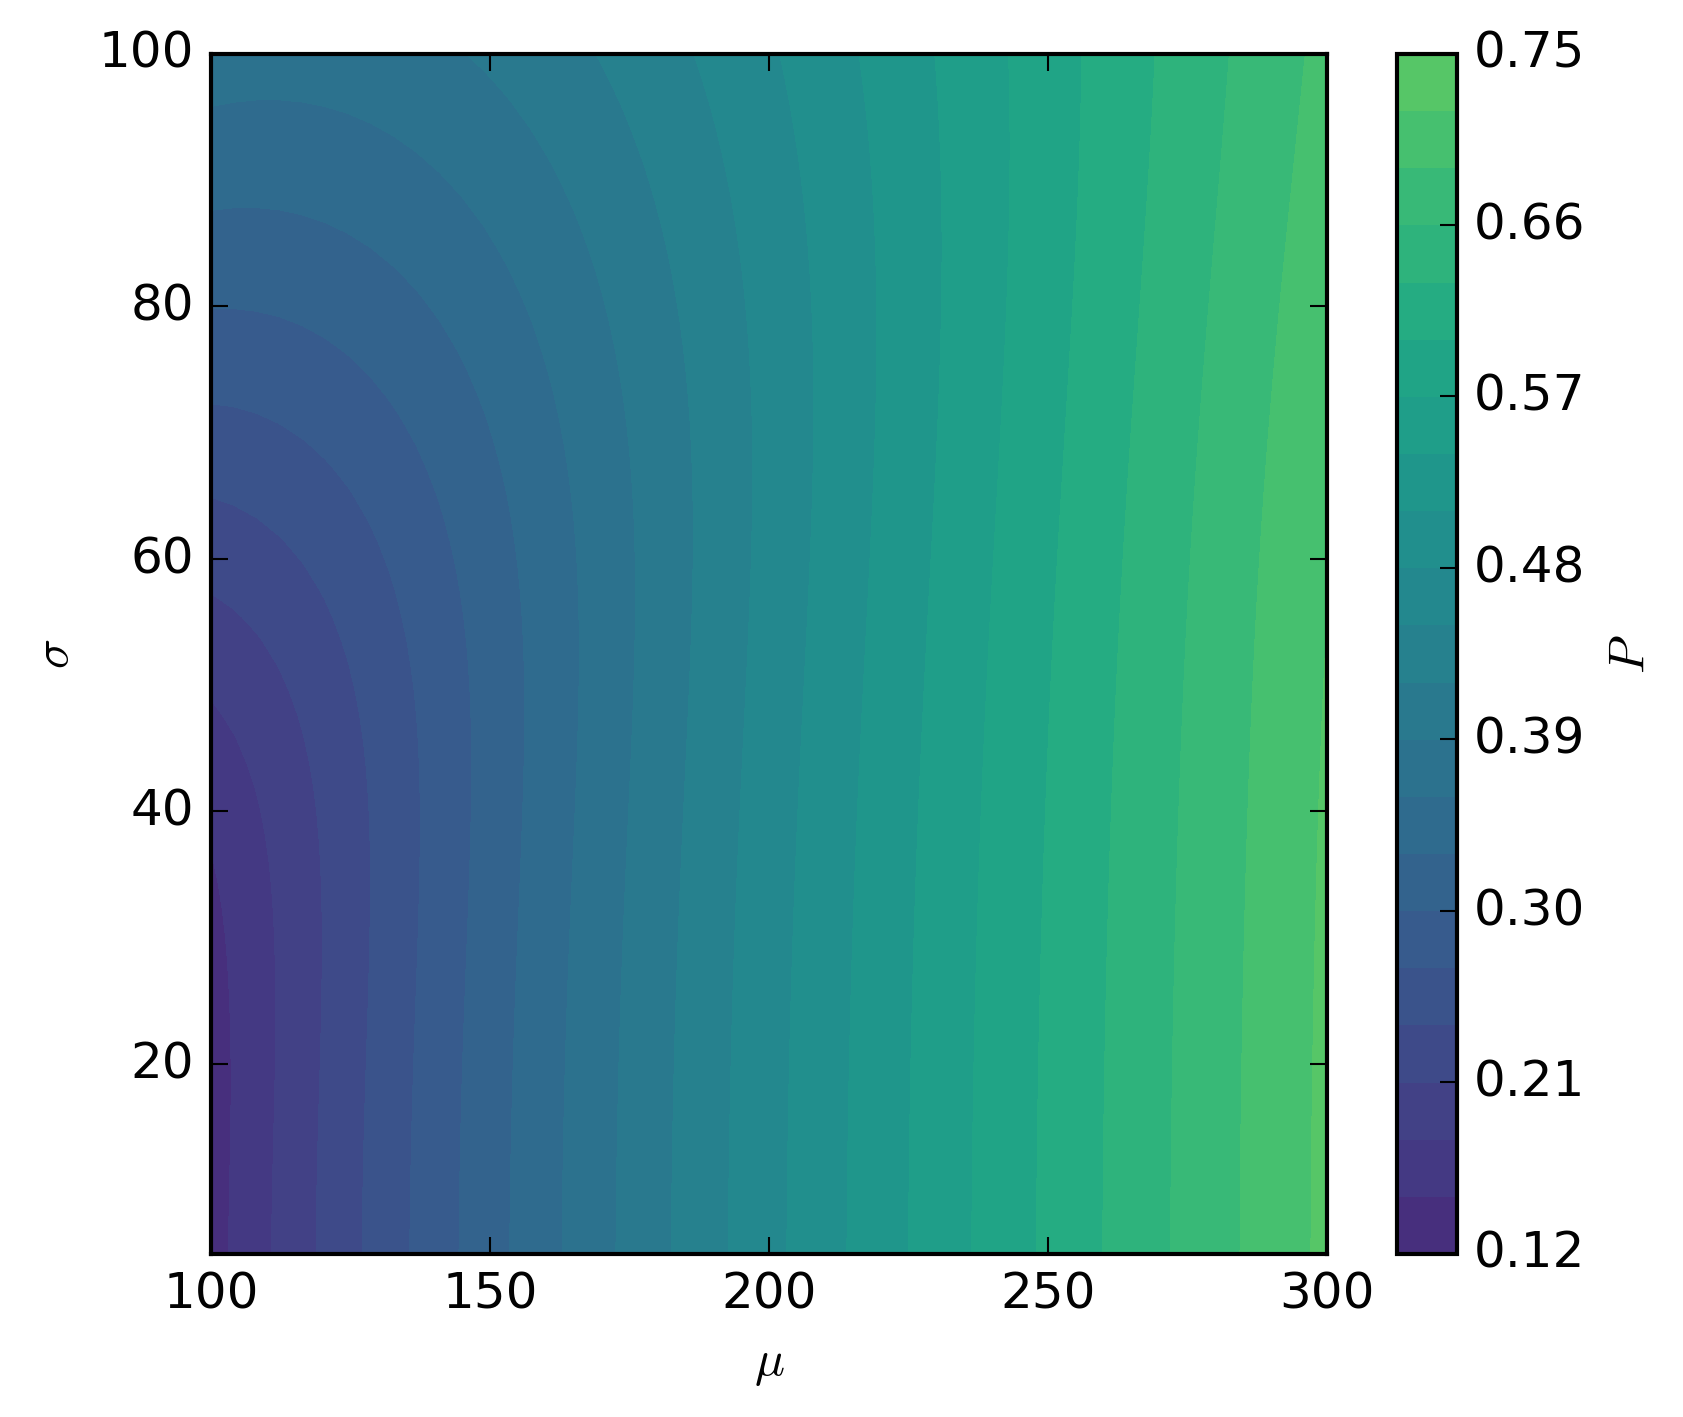
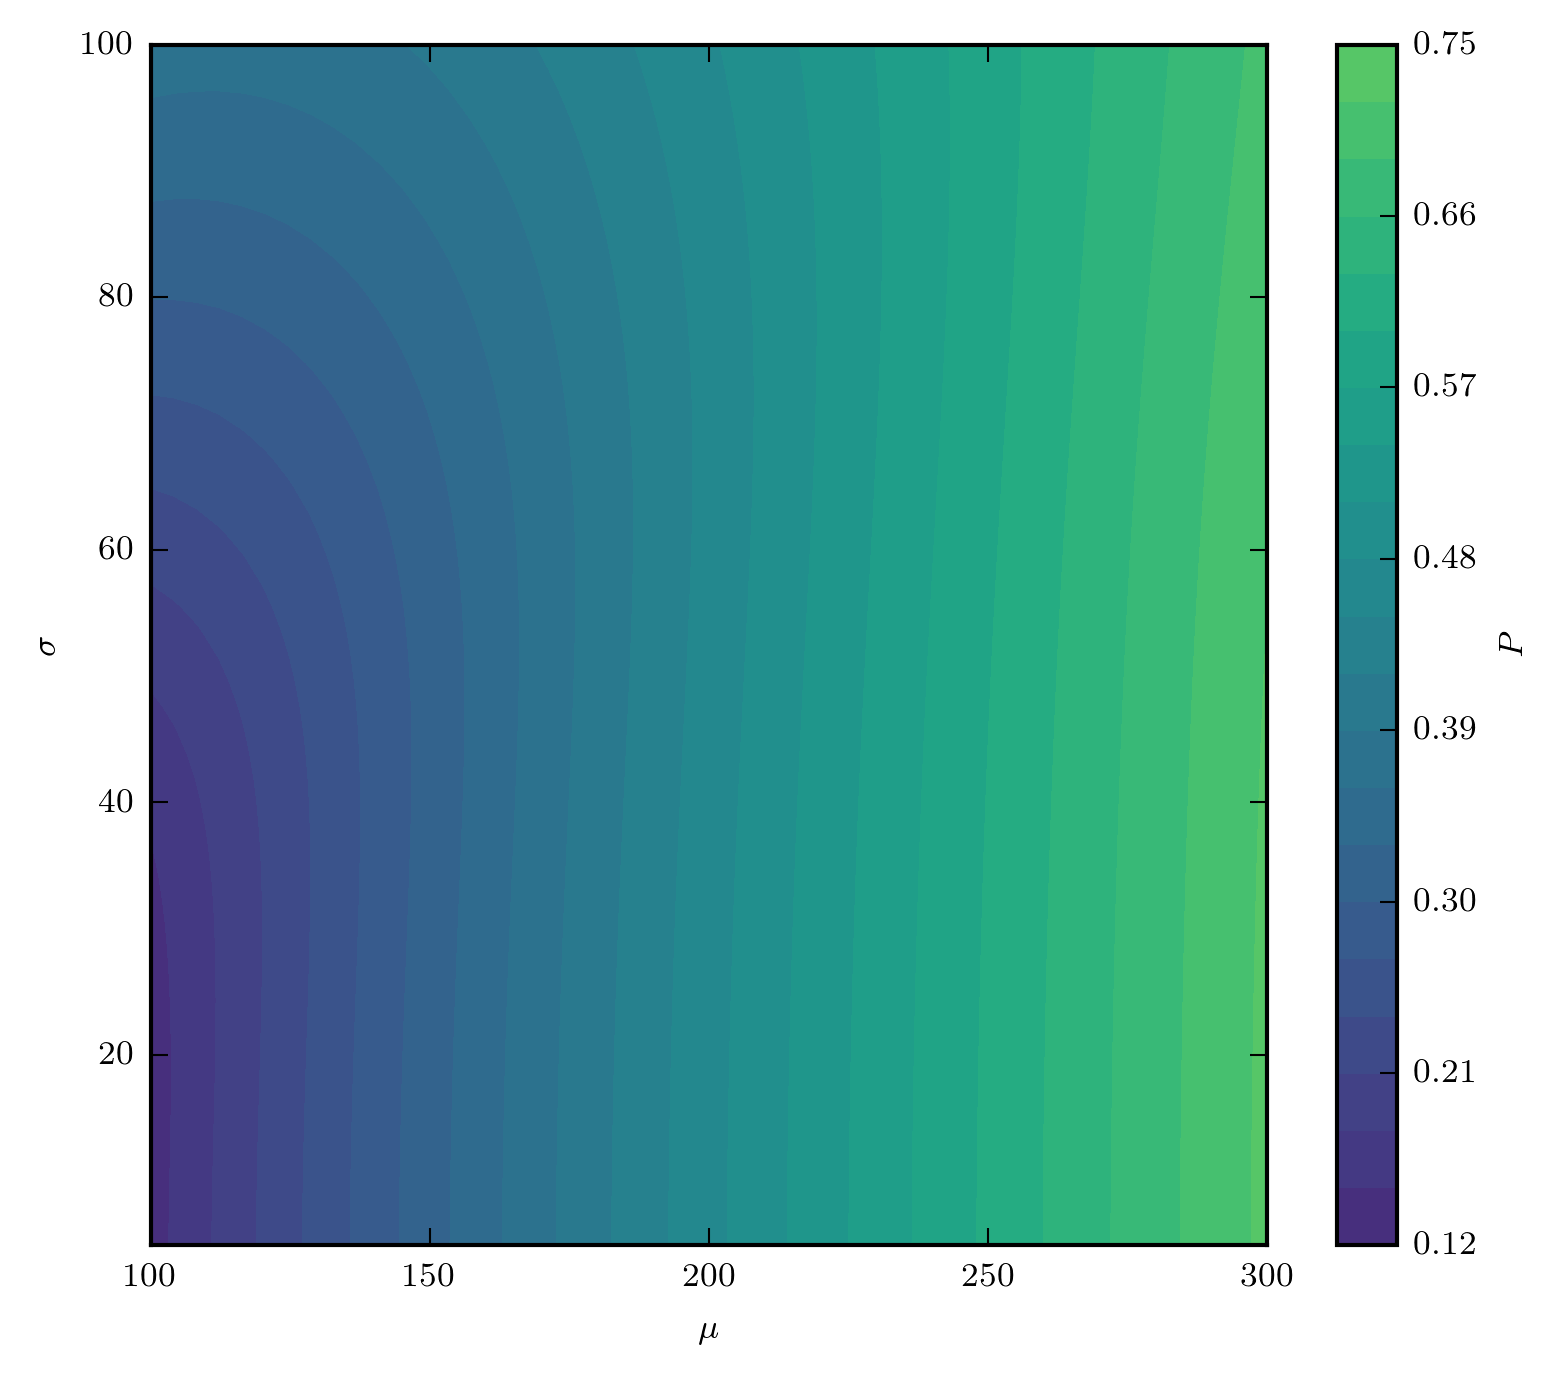
Update efficiency 6

Changed region(s): [[0.0616, 0.0, 0.9551, 0.9782], [0.9551, 0.4585, 0.9859, 0.4891]]

diff --git a/dessn/proofs/efficiency_5/__init__.py b/dessn/proofs/efficiency_5/__init__.py
@@ -36,10 +36,10 @@ as such:
 Addressing each term individually, denoting realised flux as :math:`R`...
 
 .. math::
-    P(C_0|\mu,\sigma) &= \int dz \int dL \int d\vec{R} \ P(C_0,z,L,\vec{R}|\mu,\sigma) P(z) \\
-    &= \int dz (1+z)^2 \int df \int d\vec{R} \ P(C_0|\vec{R}) P(\vec{R}|f) P(f(1+z)^2|\mu,\sigma) P(z) \\
-    &= \int dz \frac{1}{z_{\rm max} - z_{\rm min}} (1+z)^2 \int df\  \mathcal{N}(f(1+z)^2;\mu,\sigma) \prod_i \int dR_i  \mathcal{H}(\alpha^2 - R_i) \mathcal{N}(R_i;f,\sqrt{f}) \\
-    &= \int_{0}^{1.5} dz \frac{(1+z)^2}{z_{\rm max} - z_{\rm min}}  \int_{-\infty}^\infty df\  \mathcal{N}(f(1+z)^2;\mu,\sigma) \prod_i \int_{-\infty}^{\alpha^2} dR_i  \mathcal{N}(R_i;f,\sqrt{f})
+    P(C_0|\mu,\sigma) &= \int dz \int dL \int d\vec{R} \ P(C_0,z,L,\vec{R}|\mu,\sigma) \\
+    &= \int dz (1+z)^2 \int df \int d\vec{R} \ P(C_0|\vec{R}) P(\vec{R}|f) P(f(1+z)^{-2}|\mu,\sigma) P(z) \\
+    &= \int dz \frac{1}{z_{\rm max} - z_{\rm min}} (1+z)^2 \int df\  \mathcal{N}(f(1+z)^{-2};\mu,\sigma) \prod_i \int dR_i  \mathcal{H}(\alpha^2 - R_i) \mathcal{N}(R_i;f,\sqrt{f}) \\
+    &= \int_{0}^{1.5} dz \frac{(1+z)^2}{z_{\rm max} - z_{\rm min}}  \int_{-\infty}^\infty df\  \mathcal{N}(f(1+z)^{-2};\mu,\sigma) \prod_i \int_{-\infty}^{\alpha^2} dR_i  \mathcal{N}(R_i;f,\sqrt{f})
 
 As in the previous examples, we can evaluate the last integral and turn it
 into an error function. One simplification that we can employ in this model is that, as
@@ -73,20 +73,20 @@ threshold, and having a total number of observations of :math:`N`, we get:
 
 .. math::
     P(C_1|\mu,\sigma) &= \int dz \int dL \int d\vec{R} \ P(C_1,z,L,\vec{R}|\mu,\sigma) P(z)\\
-    &= \int dz \frac{(1+z)^2}{z_{\rm max} - z_{\rm min}} \int df \ P(f(1+z)^2|\mu,\sigma) \int d\vec{R} \ P(C_1|\vec{R}) P(\vec{R}|f) \\
-    &= \int dz \frac{(1+z)^2}{z_{\rm max} - z_{\rm min}}  \int df \ \mathcal{N}(f(1+z)^2;\mu,\sigma) \left[ \sum_i \int dR_i \mathcal{H}(R_i - \alpha^2) \right. \\
+    &= \int dz \frac{(1+z)^2}{z_{\rm max} - z_{\rm min}} \int df \ P(f(1+z)^{-2}|\mu,\sigma) \int d\vec{R} \ P(C_1|\vec{R}) P(\vec{R}|f) \\
+    &= \int dz \frac{(1+z)^2}{z_{\rm max} - z_{\rm min}}  \int df \ \mathcal{N}(f(1+z)^{-2};\mu,\sigma) \left[ \sum_i \int dR_i \mathcal{H}(R_i - \alpha^2) \right. \\
     &\quad\quad \left.\mathcal{N}(R_i;f,\sqrt{f}) \prod_{j\neq i} \int dR_j \mathcal{H}(\alpha^2 - R_j)\mathcal{N}(R_j;f,\sqrt{f}) \right] \\
-    &= \int dz \frac{(1+z)^2}{z_{\rm max} - z_{\rm min}}  \int df \ \mathcal{N}(f(1+z)^2;\mu,\sigma) \left[ \sum_i \left( g_{+}(f,\alpha) \prod_{j\neq i} g_{-}(f,\alpha) \right) \right] \\
-    &= \int dz \frac{(1+z)^2}{z_{\rm max} - z_{\rm min}}  \int df \ \mathcal{N}(f(1+z)^2;\mu,\sigma) N  g_{+}(f,\alpha) \left[g_{-}(f,\alpha)\right]^{N-1}\\
+    &= \int dz \frac{(1+z)^2}{z_{\rm max} - z_{\rm min}}  \int df \ \mathcal{N}(f(1+z)^{-2};\mu,\sigma) \left[ \sum_i \left( g_{+}(f,\alpha) \prod_{j\neq i} g_{-}(f,\alpha) \right) \right] \\
+    &= \int dz \frac{(1+z)^2}{z_{\rm max} - z_{\rm min}}  \int df \ \mathcal{N}(f(1+z)^{-2};\mu,\sigma) N  g_{+}(f,\alpha) \left[g_{-}(f,\alpha)\right]^{N-1}\\
 
 
 This gives us a final likelihood which we can implement:
 
 .. math::
-    \mathcal{L} &= \frac{\int df\  \frac{(1+z_o)^2}{z_{\rm max} - z_{\rm min}}  \mathcal{N}(f(1+z_o)^2 ; \mu, \sigma)
+    \mathcal{L} &= \frac{\int df\  \frac{(1+z_o)^2}{z_{\rm max} - z_{\rm min}}  \mathcal{N}(f(1+z_o)^{-2} ; \mu, \sigma)
     \prod_i \mathcal{N}(f_i ; f, \sqrt{f})}{1 - P(C_0|\mu,\sigma) - P(C_1|\mu,\sigma)} \\
-    &= \frac{\int df\  \frac{(1+z_o)^2}{z_{\rm max} - z_{\rm min}}  \mathcal{N}(f(1+z_o)^2 ; \mu, \sigma) \prod_i \mathcal{N}(f_i ; f, \sqrt{f})}
-    {1 - \int_{0}^{1} dz \frac{(1+z)^2}{z_{\rm max} - z_{\rm min}}  \int_{-\infty}^\infty df\  \mathcal{N}(f(1+z)^2;\mu,\sigma) \left(g_{-}(f,\alpha)\right)^{N-1} \left[ g_{-}(f,\alpha)  + N  g_{+}(f,\alpha)  \right]} \\
+    &= \frac{\int df\  \frac{(1+z_o)^2}{z_{\rm max} - z_{\rm min}}  \mathcal{N}(f(1+z_o)^{-2} ; \mu, \sigma) \prod_i \mathcal{N}(f_i ; f, \sqrt{f})}
+    {1 - \int_{0}^{1} dz \frac{(1+z)^2}{z_{\rm max} - z_{\rm min}}  \int_{-\infty}^\infty df\  \mathcal{N}(f(1+z)^{-2};\mu,\sigma) \left(g_{-}(f,\alpha)\right)^{N-1} \left[ g_{-}(f,\alpha)  + N  g_{+}(f,\alpha)  \right]} \\
 
 
 We now can model this using generated data and test our model performance. The denominator term,

diff --git a/dessn/proofs/efficiency_6/efficiency_model_6.py b/dessn/proofs/efficiency_6/efficiency_model_6.py
@@ -98,10 +98,10 @@ class Mean(ParameterUnderlying):
         return []
 
     def get_suggestion(self, data):
-        return 150
+        return 155
 
     def get_suggestion_sigma(self, data):
-        return 50
+        return 10
 
 
 class Scatter(ParameterUnderlying):
@@ -115,7 +115,7 @@ class Scatter(ParameterUnderlying):
         return 30
 
     def get_suggestion_sigma(self, data):
-        return 10
+        return 5
 
     def get_log_prior(self, data):
         if data["sigma"] < 0:
@@ -380,15 +380,16 @@ if __name__ == "__main__":
         mean, std, zeros, calibration, threshold, lall, zall, call, mask, num_obs = get_data()
         theta = [mean, std]
 
-        kwargs = {"num_steps": 20000, "num_burn": 8000, "save_interval": 60,
+        kwargs = {"num_steps": 70000, "num_burn": 20000, "save_interval": 60,
                   "plot_covariance": True, "unify_latent": True}  # , "callback": v.callback
-        sampler = BatchMetroploisHastings(num_walkers=w, kwargs=kwargs, temp_dir=t % i, num_cores=4)
+        sampler = BatchMetroploisHastings(num_walkers=w, kwargs=kwargs, temp_dir=t % i, num_cores=3)
 
         model_good = EfficiencyModelUncorrected(call, zall, calibration, zeros, name="Good%d" % i)
         model_good.fit(sampler, chain_consumer=c)  # , include_latent=True
         #
-        # model_un = EfficiencyModelUncorrected(fall[mask], zall[mask], name="Uncorrected%d" % i)
-        # model_un.fit(sampler, chain_consumer=c)
+        model_un = EfficiencyModelUncorrected(call[mask], zall[mask], calibration,
+                                              zeros, name="Uncorrected%d" % i)
+        model_un.fit(sampler, chain_consumer=c)
         #
         # model_cor = EfficiencyModelCorrected(fall[mask], zall[mask], threshold, num_obs,
         #                                      dir_name + "/output", name="Corrected%d" % i)
@@ -397,9 +398,9 @@ if __name__ == "__main__":
     c.configure_bar(shade=True)
     c.configure_general(bins=1.0, colours=colours)
     c.configure_contour(sigmas=[0, 0.01, 1, 2], contourf=True, contourf_alpha=0.3)
-    # c.plot(filename=plot_file, truth=theta, figsize=(5, 5), legend=False)
+    c.plot(filename=plot_file, truth=theta, figsize=(5, 5), legend=False)
     for i in range(len(c.chains)):
-        c.plot_walks(filename=walk_file % c.names[i], chain=i) #, truth=theta
+        c.plot_walks(filename=walk_file % c.names[i], chain=i, truth=theta)
         # c.divide_chain(i, w).configure_general(rainbow=True) \
         #     .plot(figsize=(5, 5), filename=plot_file.replace(".png", "_%s.png" % c.names[i]),
         #           truth=theta)

diff --git a/dessn/tests/unit/test_model_edge_cases.py b/dessn/tests/unit/test_model_edge_cases.py
@@ -32,7 +32,7 @@ def test_fail_without_edges():
     assert "unconnected" in str(e.value).lower()
 
 
-def test_fail_on_mismatched_data():
+def test_dont_fail_on_mismatched_data():
     m = Model("name")
     n1 = ParameterObserved("a", "a", np.random.random(20))
     n2 = ParameterObserved("b", "b", np.random.random(10))
@@ -44,9 +44,8 @@ def test_fail_on_mismatched_data():
     m.add_node(n3)
     m.add_edge(e1)
     m.add_edge(e2)
-    with pytest.raises(AssertionError) as e:
+    with pytest.raises(NotImplementedError) as e:
         m.finalise()
-    assert "data size" in str(e.value).lower()
 
 
 def test_fail_on_duplicate_names():

diff --git a/dessn/proofs/efficiency_6/__init__.py b/dessn/proofs/efficiency_6/__init__.py
@@ -22,5 +22,9 @@ be represented by a hat and vector quantities shall be represented by bold font.
     c_i &= 10^{\hat{Z}_i / 2.5} f \\
     \mathbf{\hat{c}_i} &\sim \mathcal{N}(c_i, \sqrt{c_i})
 
+The model PGM is constructed as follows:
 
+.. figure::     ../dessn/proofs/efficiency_6/output/pgm.png
+    :width:     80%
+    :align:     center
 """
